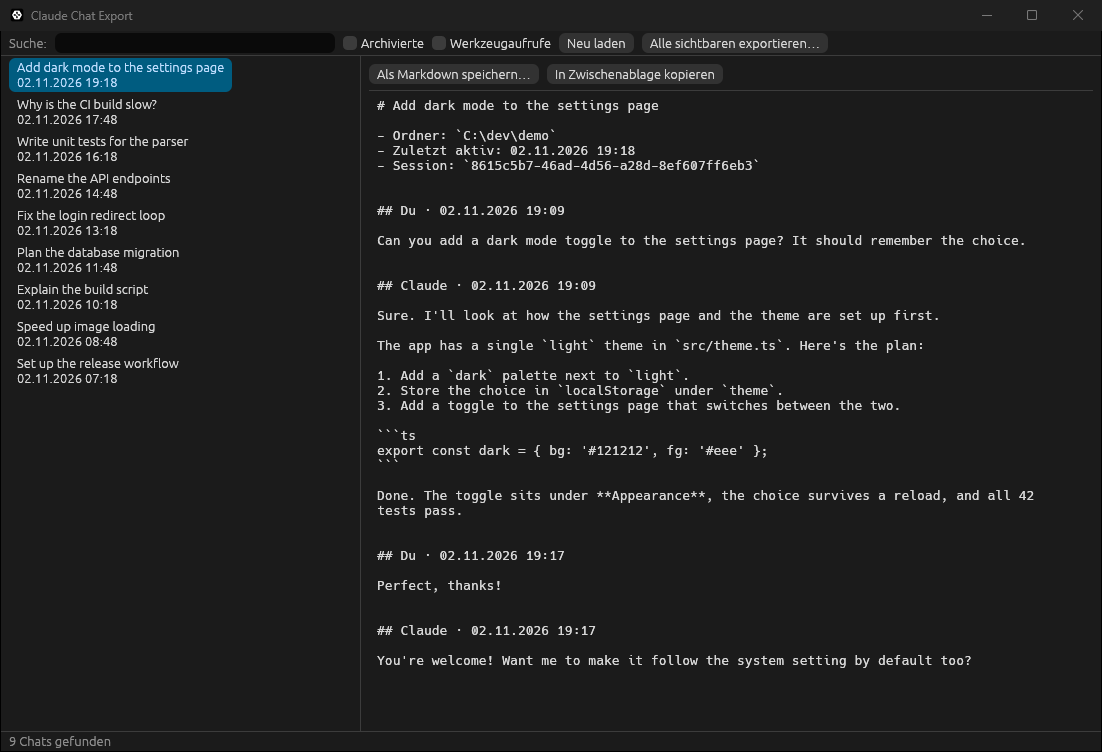
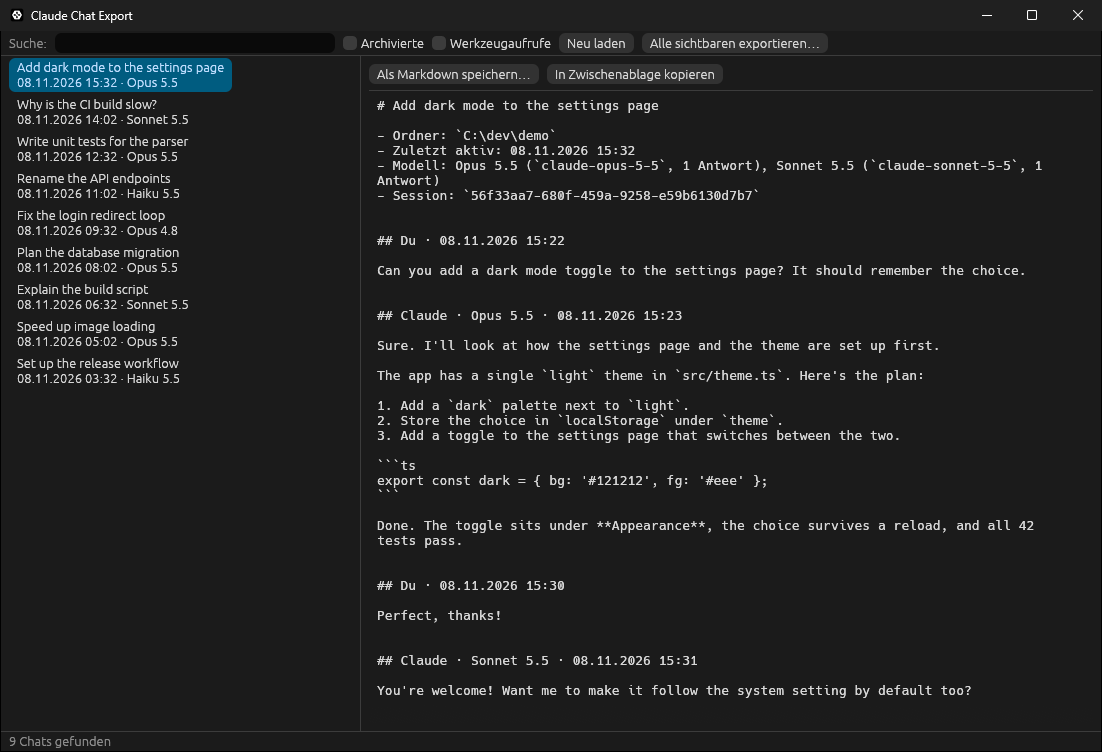
Show which model answered: per reply heading, export header and chat list
Also stop the CLI from panicking when its output pipe closes early.

diff --git a/src/lib.rs b/src/lib.rs
@@ -19,6 +19,8 @@ pub struct Session {
     pub cwd: String,
     pub last: i64,
     pub archived: bool,
+    /// Model last picked for this chat in the app, e.g. `claude-opus-5-5`.
+    pub model: String,
 }
 
 pub fn load_sessions() -> Result<Vec<Session>, String> {
@@ -45,6 +47,7 @@ pub fn load_sessions() -> Result<Vec<Session>, String> {
                     cwd: v["cwd"].as_str().unwrap_or("").to_string(),
                     last: v["lastActivityAt"].as_i64().or(v["createdAt"].as_i64()).unwrap_or(0),
                     archived: v["isArchived"].as_bool().unwrap_or(false),
+                    model: v["model"].as_str().unwrap_or("").to_string(),
                 });
             }
         }
@@ -79,12 +82,11 @@ pub fn export(s: &Session, tools: bool) -> Result<Option<String>, String> {
     let text = fs::read_to_string(&path).map_err(|e| format!("{}: {e}", path.display()))?;
 
     let mut md = String::new();
-    let _ = writeln!(md, "# {}\n", s.title);
-    let _ = writeln!(md, "- Ordner: `{}`", s.cwd);
-    let _ = writeln!(md, "- Zuletzt aktiv: {}", fmt_ms(s.last, "%d.%m.%Y %H:%M"));
-    let _ = writeln!(md, "- Session: `{}`\n", s.cli_id);
-
     let mut role = "";
+    // Model of the current reply, the one named in the last heading, and every model used.
+    let mut model = String::new();
+    let mut heading_model = String::new();
+    let mut used: Vec<(String, usize)> = vec![];
     for line in text.lines() {
         let Ok(rec) = serde_json::from_str::<Value>(line) else { continue };
         let kind = rec["type"].as_str().unwrap_or("");
@@ -101,6 +103,10 @@ pub fn export(s: &Session, tools: bool) -> Result<Option<String>, String> {
             _ => continue,
         };
         let time = rec["timestamp"].as_str().map(fmt_iso).unwrap_or_default();
+        // `<synthetic>` marks messages the app wrote itself, not a model.
+        if let Some(m) = rec["message"]["model"].as_str().filter(|m| kind == "assistant" && !m.starts_with('<')) {
+            model = m.to_string();
+        }
 
         for b in &blocks {
             let piece = match b["type"].as_str().unwrap_or("") {
@@ -111,10 +117,17 @@ pub fn export(s: &Session, tools: bool) -> Result<Option<String>, String> {
                     }
                     // Only real text decides whose turn it is; tool results ride along.
                     let who = if kind == "user" { "Du" } else { "Claude" };
-                    if role != who {
+                    if who == "Claude" && (role != who || heading_model != model) {
+                        match used.iter_mut().find(|(m, _)| *m == model) {
+                            Some((_, n)) => *n += 1,
+                            None => used.push((model.clone(), 1)),
+                        }
+                        let _ = write!(md, "\n## Claude · {} · {time}\n\n", model_name(&model));
+                        heading_model = model.clone();
+                    } else if role != who {
                         let _ = write!(md, "\n## {who} · {time}\n\n");
-                        role = who;
                     }
+                    role = who;
                     t
                 }
                 "image" if kind == "user" => "*[Bild]*".to_string(),
@@ -131,7 +144,64 @@ pub fn export(s: &Session, tools: bool) -> Result<Option<String>, String> {
             md.push_str("\n\n");
         }
     }
-    Ok(Some(md))
+
+    let mut head = String::new();
+    let _ = writeln!(head, "# {}\n", s.title);
+    let _ = writeln!(head, "- Ordner: `{}`", s.cwd);
+    let _ = writeln!(head, "- Zuletzt aktiv: {}", fmt_ms(s.last, "%d.%m.%Y %H:%M"));
+    if !used.is_empty() {
+        let list: Vec<String> = used
+            .iter()
+            .map(|(m, n)| format!("{} (`{m}`, {n} {})", model_name(m), if *n == 1 { "Antwort" } else { "Antworten" }))
+            .collect();
+        let _ = writeln!(head, "- Modell: {}", list.join(", "));
+    }
+    let _ = writeln!(head, "- Session: `{}`\n", s.cli_id);
+    Ok(Some(head + &md))
+}
+
+/// `claude-opus-5-5` -> `Opus 5.5`, `claude-3-5-sonnet-20241022` -> `Sonnet 3.5`.
+/// Ids that do not look like Claude models come back unchanged.
+pub fn model_name(id: &str) -> String {
+    if id.is_empty() {
+        return "unbekanntes Modell".into();
+    }
+    let core = id.split('[').next().unwrap_or(id);
+    let Some(rest) = core.strip_prefix("claude-") else { return id.to_string() };
+    let mut family = String::new();
+    let mut version = vec![];
+    for part in rest.split('-') {
+        if part.chars().all(|c| c.is_ascii_digit()) {
+            // Snapshot dates such as 20241022 are not part of the version.
+            if part.len() < 8 {
+                version.push(part);
+            }
+        } else if family.is_empty() {
+            let mut c = part.chars();
+            family = c.next().map(|f| f.to_uppercase().chain(c).collect()).unwrap_or_default();
+        }
+    }
+    match (family.is_empty(), version.is_empty()) {
+        (true, _) => id.to_string(),
+        (false, true) => family,
+        (false, false) => format!("{family} {}", version.join(".")),
+    }
+}
+
+#[cfg(test)]
+mod tests {
+    use super::model_name;
+
+    #[test]
+    fn model_names() {
+        assert_eq!(model_name("claude-opus-5-5"), "Opus 5.5");
+        assert_eq!(model_name("claude-opus-4-8"), "Opus 4.8");
+        assert_eq!(model_name("claude-sonnet-4-5-20250929"), "Sonnet 4.5");
+        assert_eq!(model_name("claude-3-5-sonnet-20241022"), "Sonnet 3.5");
+        assert_eq!(model_name("claude-fable-5-1[1m]"), "Fable 5.1");
+        assert_eq!(model_name("gpt-x"), "gpt-x");
+        assert_eq!(model_name(""), "unbekanntes Modell");
+    }
 }
 
 /// Drops the harness wrappers the app adds around real messages.

diff --git a/docs/make-demo-data.py b/docs/make-demo-data.py
@@ -55,16 +55,23 @@ chats = [
     ("Set up the release workflow", [("user", "Can you set up releases on tag push?"), ("assistant", "Added a workflow that builds and attaches binaries on every `v*` tag.")]),
 ]
 
+MODELS = ["claude-opus-5-5", "claude-sonnet-5-5", "claude-opus-5-5", "claude-haiku-5-5", "claude-opus-4-8"]
+
 for n, (title, msgs) in enumerate(chats):
     cli = str(uuid.uuid4())
     last = now - n * 5_400_000
+    model = MODELS[n % len(MODELS)]
     meta = {"sessionId": f"local_{uuid.uuid4()}", "cliSessionId": cli, "cwd": r"C:\dev\demo",
-            "title": title, "createdAt": last - 600_000, "lastActivityAt": last, "isArchived": False}
+            "title": title, "createdAt": last - 600_000, "lastActivityAt": last, "isArchived": False,
+            "model": model}
     (sessions / f"{meta['sessionId']}.json").write_text(json.dumps(meta), encoding="utf8")
     with open(projects / f"{cli}.jsonl", "w", encoding="utf8") as f:
         t = last - 600_000
-        for role, content in msgs:
+        for i, (role, content) in enumerate(msgs):
             t += 40_000
-            f.write(json.dumps({"type": role, "timestamp": iso(t),
-                                "message": {"role": role, "content": content}}) + "\n")
+            message = {"role": role, "content": content}
+            if role == "assistant":
+                # The first chat switches model for its last reply, to show a switch in the export.
+                message["model"] = "claude-sonnet-5-5" if n == 0 and i == len(msgs) - 1 else model
+            f.write(json.dumps({"type": role, "timestamp": iso(t), "message": message}) + "\n")
 print(f"{len(chats)} demo chats in {root}")

diff --git a/src/main.rs b/src/main.rs
@@ -1,7 +1,8 @@
 //! Command-line front end.
 
-use cc_chat_export::{export, fmt_ms, load_sessions, safe_name, Session};
+use cc_chat_export::{export, fmt_ms, load_sessions, model_name, safe_name, Session};
 use std::fs;
+use std::io::Write;
 use std::path::PathBuf;
 use std::process::ExitCode;
 
@@ -58,9 +59,14 @@ fn run() -> Result<(), String> {
 
     match opts.rest.first().map(String::as_str) {
         None | Some("list") => {
+            // writeln! instead of println!, so `| head` ends the list instead of panicking.
+            let mut out = std::io::stdout().lock();
             for (i, s) in visible.iter().enumerate() {
                 let mark = if s.archived { " [archiviert]" } else { "" };
-                println!("{:>3}  {}  {}{}", i + 1, fmt_ms(s.last, "%d.%m.%Y %H:%M"), s.title, mark);
+                let line = format!("{:>3}  {}  {:<12}  {}{}", i + 1, fmt_ms(s.last, "%d.%m.%Y %H:%M"), model_name(&s.model), s.title, mark);
+                if writeln!(out, "{line}").is_err() {
+                    break;
+                }
             }
             Ok(())
         }
@@ -73,7 +79,9 @@ fn run() -> Result<(), String> {
                     fs::write(p, md).map_err(|e| format!("{}: {e}", p.display()))?;
                     eprintln!("„{}“ → {}", s.title, p.display());
                 }
-                None => print!("{md}"),
+                None => {
+                    let _ = std::io::stdout().lock().write_all(md.as_bytes());
+                }
             }
             Ok(())
         }

diff --git a/src/bin/cc-chat-export-gui.rs b/src/bin/cc-chat-export-gui.rs
@@ -2,7 +2,7 @@
 
 #![windows_subsystem = "windows"]
 
-use cc_chat_export::{export, fmt_ms, load_sessions, safe_name, Session};
+use cc_chat_export::{export, fmt_ms, load_sessions, model_name, safe_name, Session};
 use eframe::egui;
 
 fn main() -> eframe::Result {
@@ -150,7 +150,7 @@ impl eframe::App for App {
             egui::ScrollArea::vertical().auto_shrink(false).show(ui, |ui| {
                 for i in self.visible() {
                     let s = &self.sessions[i];
-                    let text = format!("{}\n{}", s.title, fmt_ms(s.last, "%d.%m.%Y %H:%M"));
+                    let text = format!("{}\n{} · {}", s.title, fmt_ms(s.last, "%d.%m.%Y %H:%M"), model_name(&s.model));
                     if ui.selectable_label(self.selected == Some(i), text).clicked() {
                         self.selected = Some(i);
                     }

diff --git a/README.md b/README.md
@@ -20,6 +20,7 @@ It only reads local files and sends nothing anywhere.
 - **Every chat from the Code tab**, with its sidebar title, newest first, archived chats optional
 - **Search** by title
 - **Live preview** of the Markdown before you save
+- **Which model answered:** every Claude reply is headed with its model (Opus 5.5, Sonnet 5.5, ...), switches mid-chat included, and the export header sums up the models used. The chat list shows the model last picked for each chat in the app
 - **Export one chat**, **copy it to the clipboard**, or **export all visible chats** into a folder
 - **Tool calls optional:** one line per call, with the result shortened inside a collapsible `<details>` block
 - **No harness noise:** `<system-reminder>` blocks, task notifications, thinking and sub-agent sidechains are left out, and compacted context is marked
@@ -38,14 +39,15 @@ It only reads local files and sends nothing anywhere.
 # Add dark mode to the settings page
 
 - Ordner: `C:\dev\demo`
-- Zuletzt aktiv: 02.11.2026 19:18
-- Session: `8615c5b7-46ad-4d56-a28d-8ef607ff6eb3`
+- Zuletzt aktiv: 08.11.2026 15:32
+- Modell: Opus 5.5 (`claude-opus-5-5`, 1 Antwort), Sonnet 5.5 (`claude-sonnet-5-5`, 1 Antwort)
+- Session: `56f33aa7-680f-459a-9258-e59b6130d7b7`
 
-## Du · 02.11.2026 19:09
+## Du · 08.11.2026 15:22
 
 Can you add a dark mode toggle to the settings page? It should remember the choice.
 
-## Claude · 02.11.2026 19:09
+## Claude · Opus 5.5 · 08.11.2026 15:23
 
 Sure. I'll look at how the settings page and the theme are set up first.
 
@@ -94,7 +96,7 @@ cc-chat-export-gui [--tools] [--open TITLE] [SEARCH]
 ### Command line
 
 ```
-cc-chat-export [list] [--archived]              list chats, newest first
+cc-chat-export [list] [--archived]              list chats with their model, newest first
 cc-chat-export <pick> [-o FILE] [--tools]       export one chat (to stdout without -o)
       <pick> = number from the list, session id (a prefix is enough) or part of the title
 cc-chat-export --all -o DIR [--archived] [--tools]

diff --git a/docs/example-export.md b/docs/example-export.md
@@ -1,16 +1,17 @@
 # Add dark mode to the settings page
 
 - Ordner: `C:\dev\demo`
-- Zuletzt aktiv: 02.11.2026 19:18
-- Session: `8615c5b7-46ad-4d56-a28d-8ef607ff6eb3`
+- Zuletzt aktiv: 08.11.2026 15:32
+- Modell: Opus 5.5 (`claude-opus-5-5`, 1 Antwort), Sonnet 5.5 (`claude-sonnet-5-5`, 1 Antwort)
+- Session: `56f33aa7-680f-459a-9258-e59b6130d7b7`
 
 
-## Du · 02.11.2026 19:09
+## Du · 08.11.2026 15:22
 
 Can you add a dark mode toggle to the settings page? It should remember the choice.
 
 
-## Claude · 02.11.2026 19:09
+## Claude · Opus 5.5 · 08.11.2026 15:23
 
 Sure. I'll look at how the settings page and the theme are set up first.
 
@@ -64,12 +65,12 @@ Tests: 42 passed, 42 total
 Done. The toggle sits under **Appearance**, the choice survives a reload, and all 42 tests pass.
 
 
-## Du · 02.11.2026 19:17
+## Du · 08.11.2026 15:30
 
 Perfect, thanks!
 
 
-## Claude · 02.11.2026 19:17
+## Claude · Sonnet 5.5 · 08.11.2026 15:31
 
 You're welcome! Want me to make it follow the system setting by default too?
 
